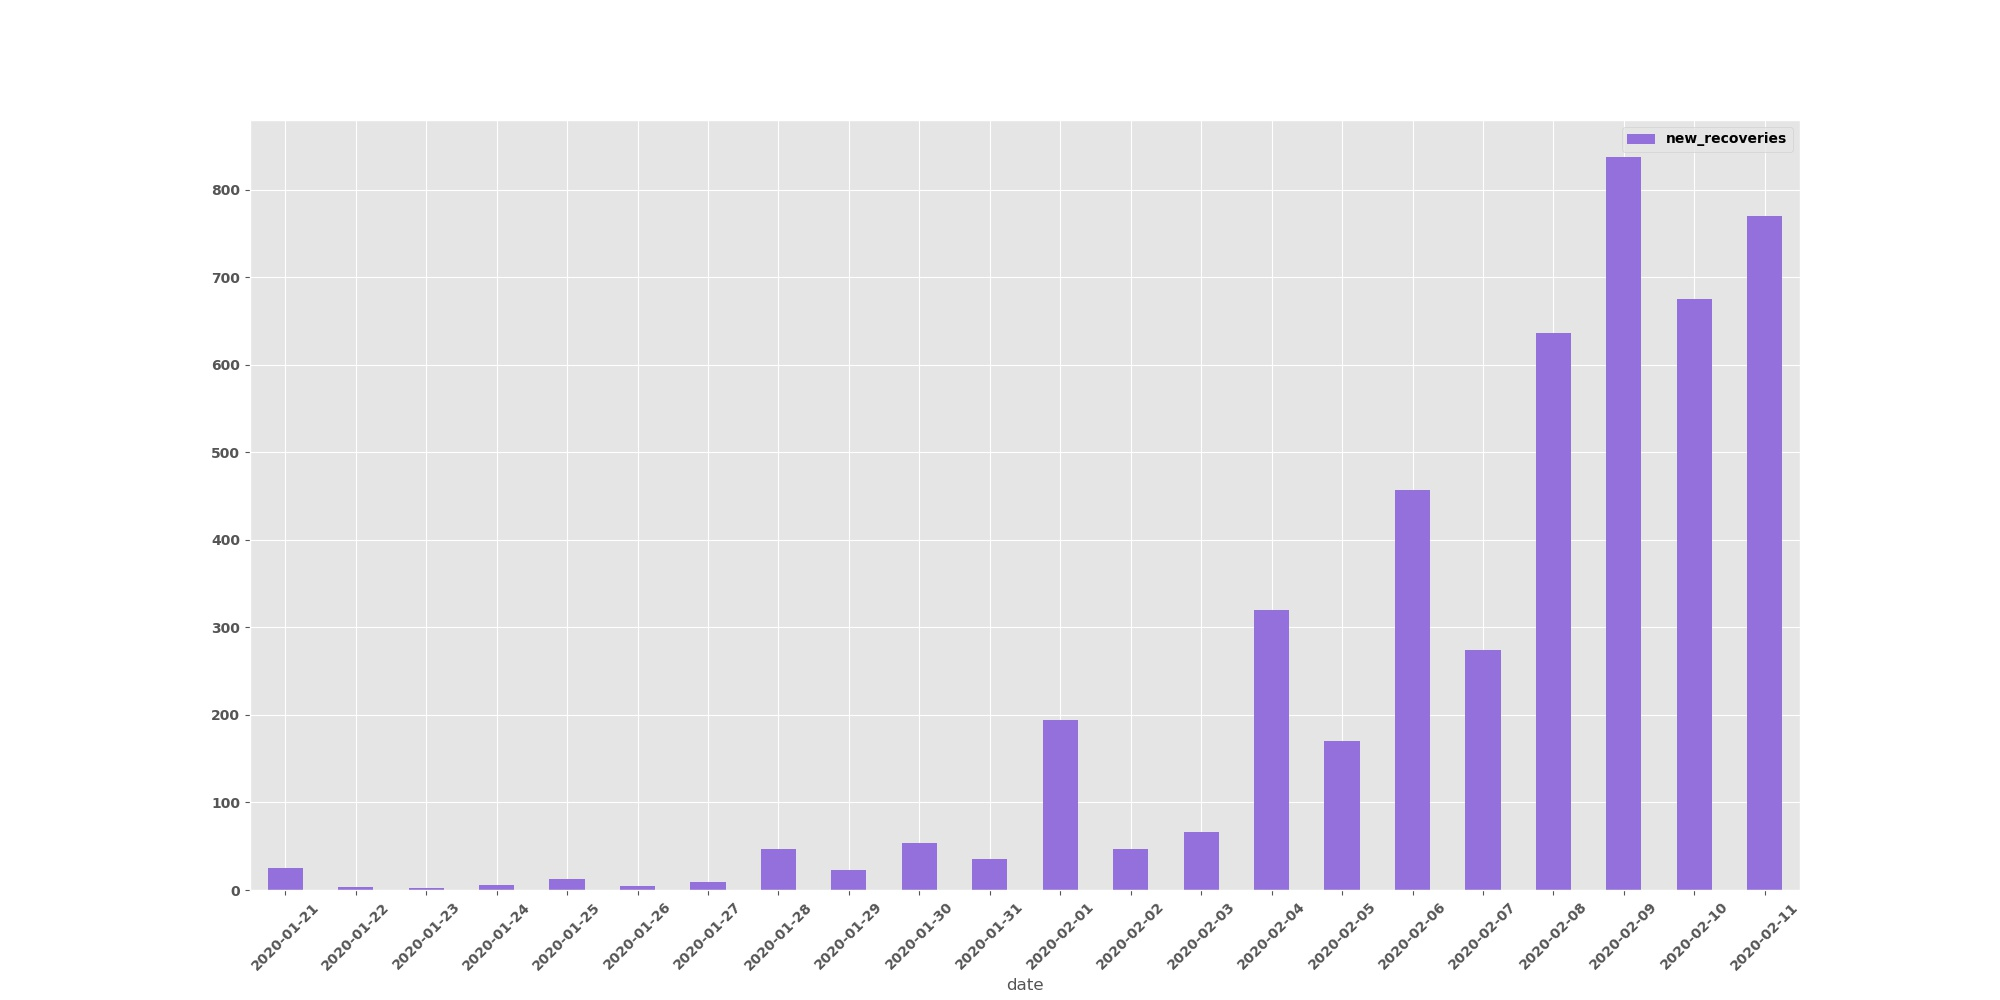
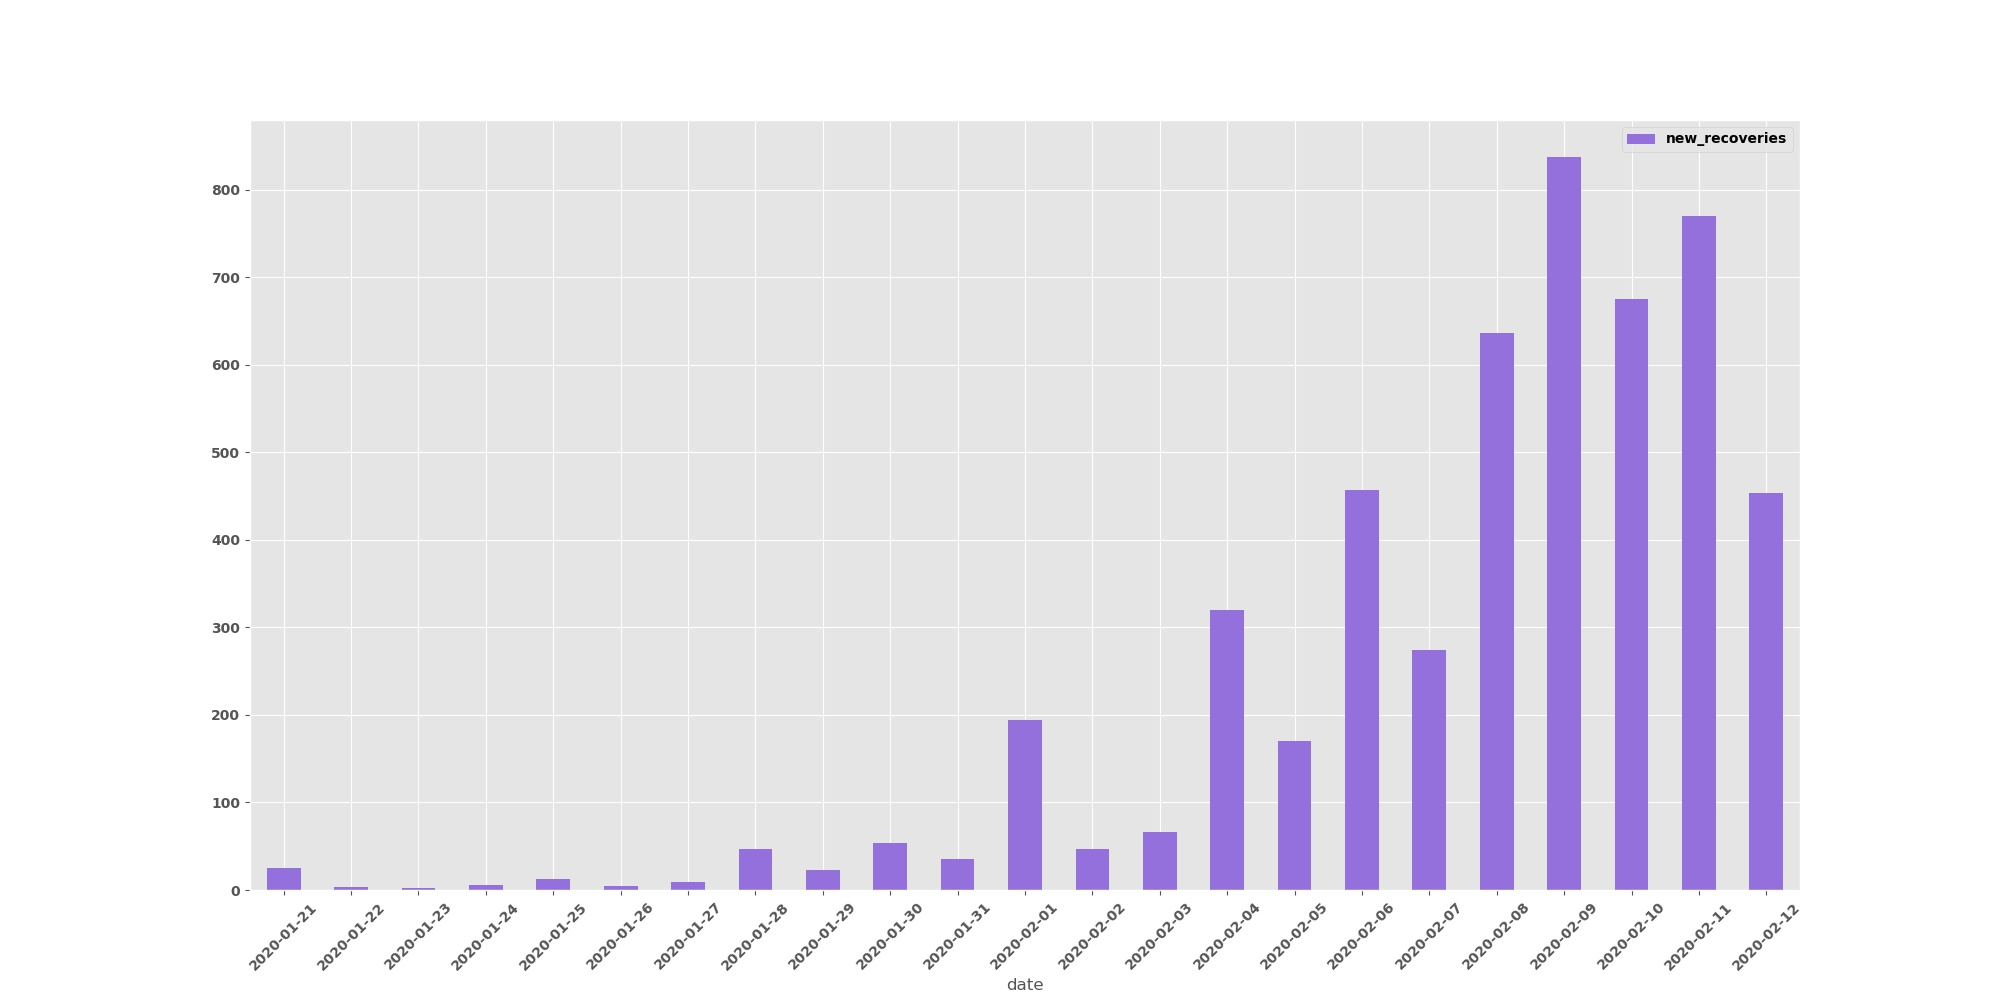
ADD - added new report for 12th feb

Changed region(s): [[0.124, 0.155, 0.899, 0.961]]

diff --git a/README.md b/README.md
@@ -25,7 +25,7 @@ This plots will be updated <u>daily</u> to visualize the trend in accumalitive s
 - **<i>Deaths</i>**
 - **<i>Recoveries.</i>**
 
-Last updated: `2020-02-11`
+Last updated: `2020-02-12`
 
 **Trend Line**
 
